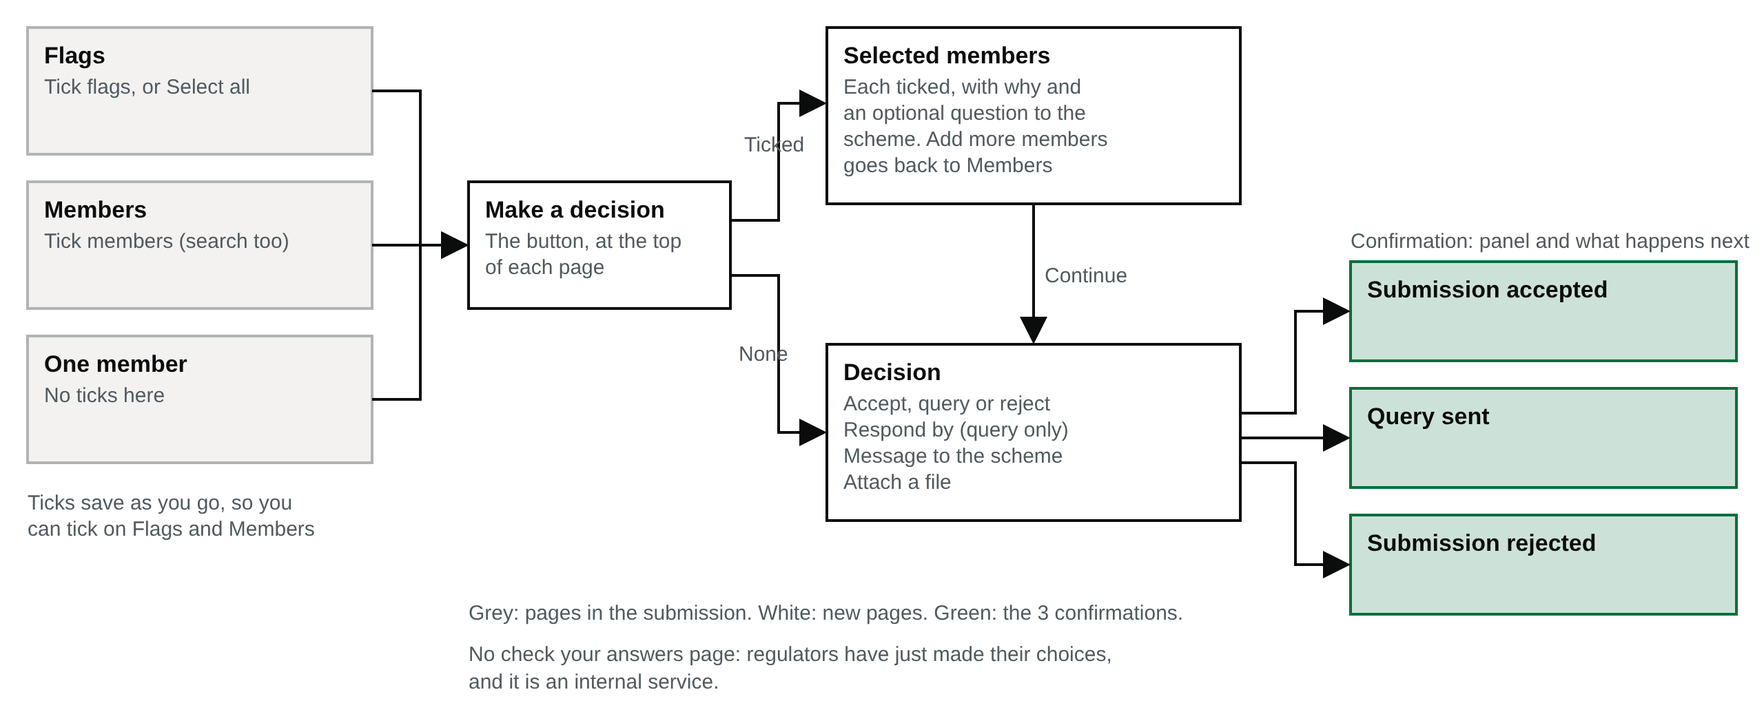
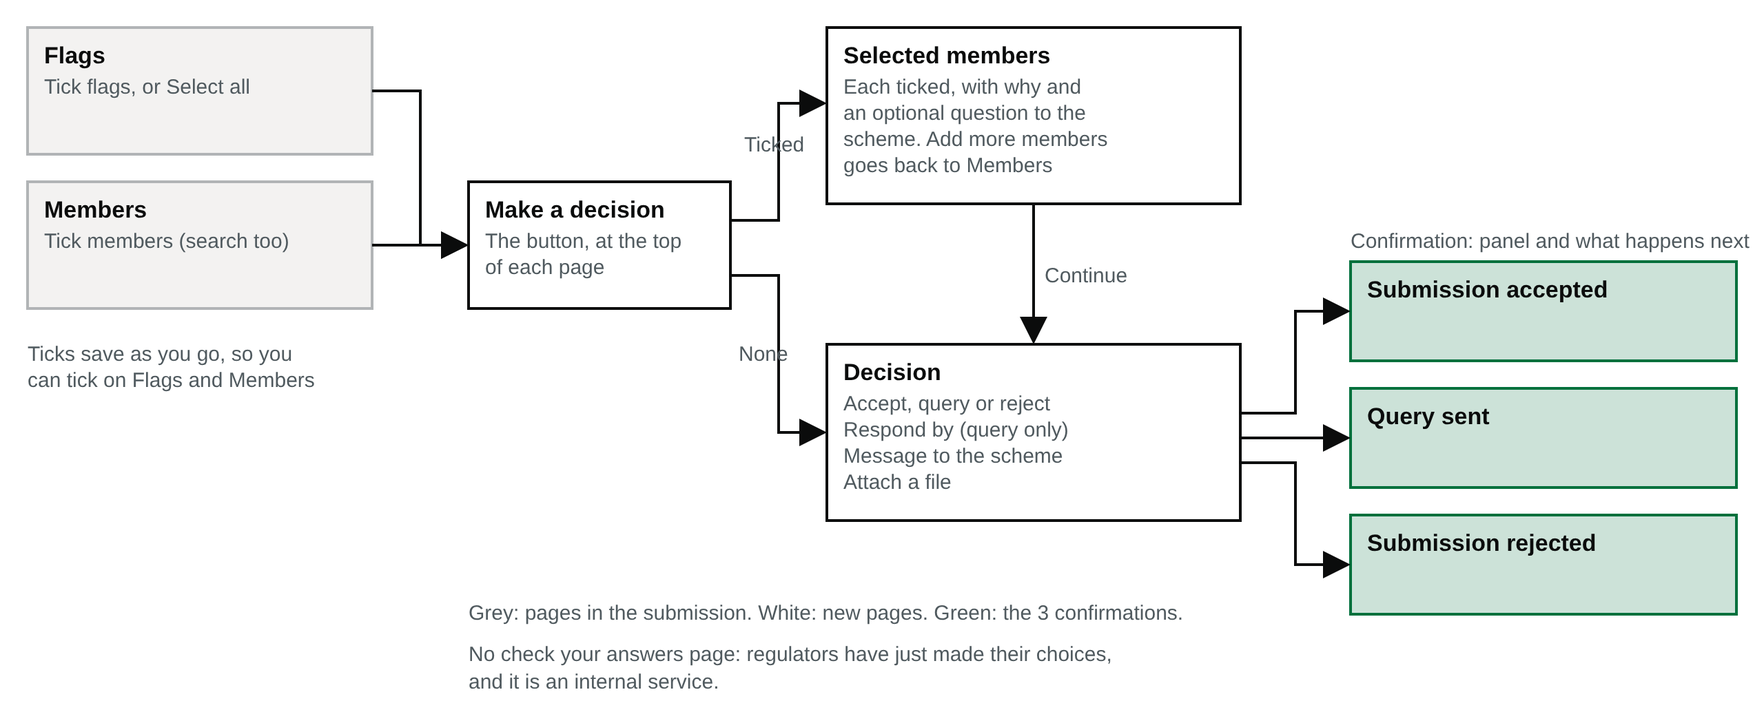
Take Make a decision off the member page, and update the Patterns page
Member page (version 4): no Make a decision button. There's nothing to tick there, so you make a decision from Flags or Members.

Change logs for EB-366 and EB-367 and both journey diagrams updated to match.

Patterns page: Defra Internal Frontend (Geoff's shared library) added, the table updated for version 4 with a column saying whether the library has each component, and our own add-ons listed.

Changed region(s): [[0.0, 0.4571, 0.2188, 0.579], [0.0312, 0.6705, 0.1875, 0.7619]]

diff --git a/app/views/patterns.html b/app/views/patterns.html
@@ -1,12 +1,22 @@
 {% extends "layouts/areas.html" %}
 
 {#
-  Patterns: components and patterns we're trying out, and the regulator toolkit prototype we align with.
-  Anything here from outside the GOV.UK Design System is also listed in the README, "Add-ons".
+  Patterns: the shared components and patterns we align with, and the ones
+  we use from outside the GOV.UK Design System.
+  Updated 18 November 2026 for version 4 (EB-366 and EB-367), and Geoff
+  Kaile's shared component library, Defra Internal Frontend.
+  Anything here from outside the GOV.UK Design System is also listed in the
+  README, "Add-ons".
 #}
 
 {% set pageName = "Patterns" %}
 {% set area = "patterns" %}
+
+{% set libraryUrl = "https://github.com/DEFRA/waste-regulator-components-fe" %}
+{% set libraryDocs = "https://github.com/DEFRA/waste-regulator-components-fe/blob/main/docs/components/" %}
+{% set toolkitUrl = "https://regulator-responsibility-app-359d82a07820.herokuapp.com/docs/design-patterns/patterns/patterns" %}
+{% set v4 = "/regulator/pom-submissions/v4" %}
+{% set v4Submission = "/regulator/pom-submissions/v4/recycling-lives/2026/3" %}
 
 {% block content %}
 <div class="govuk-grid-row">
@@ -14,19 +24,30 @@
 
     <h1 class="govuk-heading-xl">Patterns</h1>
 
-    <p class="govuk-body-l">Patterns, components and experiments we're trying out for Batteries EPR.</p>
+    <p class="govuk-body-l">The shared components we align with, and what we use from outside the GOV.UK Design System.</p>
+
+    <h2 class="govuk-heading-m govuk-!-margin-top-8">Defra Internal Frontend</h2>
+
+    <p class="govuk-body">A shared library of components for Defra internal services, such as regulator services, built on GOV.UK Frontend. It's maintained by the EPR Regulators team. Geoff Kaile is the front-end developer.</p>
+
+    <p class="govuk-body">Developers build regulator pages from this library, so where it has a component, we use it, or something that matches it. When we need something it doesn't have, we tell Geoff.</p>
+
+    <ul class="govuk-list">
+      <li><a href="{{ libraryDocs }}index.md" class="govuk-link" rel="noreferrer noopener" target="_blank">Defra Internal Frontend: components (opens in new tab)</a></li>
+      <li><a href="{{ libraryUrl }}" class="govuk-link" rel="noreferrer noopener" target="_blank">Defra Internal Frontend on GitHub (opens in new tab)</a></li>
+    </ul>
 
     <h2 class="govuk-heading-m govuk-!-margin-top-8">Regulator toolkit prototype</h2>
 
-    <p class="govuk-body">The regulator toolkit team own the shared design for regulator services across EPR. On regulator pages, we use their patterns and stay aligned with them. Anything new we design for regulators, we add to their prototype.</p>
+    <p class="govuk-body">The regulator toolkit team own the shared design for regulator services across EPR. On regulator pages, we use their patterns and stay aligned with them. Anything new we design for regulators, we share with them.</p>
 
     <p class="govuk-body">Alex Colbeck is their interaction designer. Ask Marie or Alex for the password.</p>
 
-    <p class="govuk-body"><a href="https://regulator-responsibility-app-359d82a07820.herokuapp.com/docs/design-patterns/patterns/patterns" class="govuk-link">Regulator toolkit prototype: caseworking design patterns</a></p>
+    <p class="govuk-body"><a href="{{ toolkitUrl }}" class="govuk-link" rel="noreferrer noopener" target="_blank">Regulator toolkit prototype: caseworking design patterns (opens in new tab)</a></p>
 
     <h2 class="govuk-heading-m govuk-!-margin-top-8">From outside the GOV.UK Design System</h2>
 
-    <p class="govuk-body">We use these because the GOV.UK Design System doesn't have what we need yet.</p>
+    <p class="govuk-body">We use these because the GOV.UK Design System doesn't have what we need yet. The last column says whether Defra Internal Frontend has it.</p>
 
   </div>
 </div>
@@ -34,37 +55,81 @@
 <div class="govuk-grid-row">
   <div class="govuk-grid-column-full">
 
-    {{ govukTable({
-      caption: "From outside the GOV.UK Design System",
-      captionClasses: "govuk-visually-hidden",
-      firstCellIsHeader: true,
-      head: [
-        { text: "Component" },
-        { text: "From" },
-        { text: "Where we use it" },
-        { text: "Where else it's used" }
-      ],
-      rows: [
-        [
-          { html: '<a href="https://design-patterns.service.justice.gov.uk/components/sortable-table/" class="govuk-link">Sortable table</a>' },
-          { text: "MOJ Design System" },
-          { html: '<a href="/regulators" class="govuk-link">Regulators</a> (the list of prototypes), <a href="/regulator/pom-submissions/full/recycling-lives/2026/3/members" class="govuk-link">members of a scheme</a> and <a href="/regulator/pom-submissions/all-submissions" class="govuk-link">placed on the market submissions</a> (all submissions)' },
-          { html: 'Regulator toolkit prototype: <a href="https://regulator-responsibility-app-359d82a07820.herokuapp.com/v4/regulator-index--dashboard?persona=basic-user" class="govuk-link">regulator dashboard</a> (every To action and Completed table)' }
+    {# The tag on its own line, the words under it #}
+    {% set yes = '<strong class="govuk-tag govuk-tag--green govuk-!-margin-bottom-2">Yes</strong><br>' %}
+    {% set no = '<strong class="govuk-tag govuk-tag--grey govuk-!-margin-bottom-2">Not yet</strong><br>' %}
+
+    <div class="moj-scrollable-pane" role="region" tabindex="0" aria-label="From outside the GOV.UK Design System">
+      {{ govukTable({
+        caption: "From outside the GOV.UK Design System",
+        captionClasses: "govuk-visually-hidden",
+        firstCellIsHeader: true,
+        classes: "govuk-!-font-size-16",
+        head: [
+          { text: "Component", classes: "app-table-cell--wrap" },
+          { text: "From", classes: "app-table-cell--wrap" },
+          { text: "Where we use it", classes: "app-table-cell--wrap" },
+          { text: "In Defra Internal Frontend", classes: "app-table-cell--wrap" }
         ],
-        [
-          { html: '<a href="https://design-patterns.service.justice.gov.uk/components/scrollable-pane/" class="govuk-link">Scrollable pane</a>' },
-          { text: "MOJ Design System (copied exactly, as the version of MOJ Frontend this kit can use doesn't have it)" },
-          { html: 'Every wide table: <a href="/regulators" class="govuk-link">Regulators</a>, <a href="/regulator/pom-submissions/latest-quarter" class="govuk-link">placed on the market submissions</a> (both versions), the flags table on the submission (full version) and members of a scheme' },
-          { html: 'Regulator toolkit prototype: <a href="https://regulator-responsibility-app-359d82a07820.herokuapp.com/v4/regulator-index--dashboard?persona=basic-user" class="govuk-link">regulator dashboard</a> and <a href="https://regulator-responsibility-app-359d82a07820.herokuapp.com/v4/certificates-of-compliance/basic-user/certificate-details?orgId=100105" class="govuk-link">certificate of compliance details</a>' }
-        ],
-        [
-          { html: '<a href="https://regulator-responsibility-app-359d82a07820.herokuapp.com/docs/design-patterns/patterns/patterns" class="govuk-link">Defra internal header, service navigation and footer</a>' },
-          { text: "Regulator toolkit prototype" },
-          { text: "Every regulator page in the prototype. Not agreed for the build yet" },
-          { html: 'Regulator toolkit prototype: every page, for example the <a href="https://regulator-responsibility-app-359d82a07820.herokuapp.com/v4/regulator-index--dashboard?persona=basic-user" class="govuk-link">regulator dashboard</a>' }
+        rows: [
+          [
+            { html: '<a href="https://design-patterns.service.justice.gov.uk/components/sub-navigation/" class="govuk-link">Sub navigation</a>', classes: "app-table-cell--wrap" },
+            { text: "MOJ Design System", classes: "app-table-cell--wrap" },
+            { html: 'Moving between the 5 pages of a <a href="' + v4Submission + '" class="govuk-link">submission</a> (version 4)', classes: "app-table-cell--wrap" },
+            { html: yes + '<a href="' + libraryDocs + 'producer-subnavigation.md" class="govuk-link">Producer subnavigation</a>, the same component. To ask Geoff: could it be called "Sub navigation", so every team can use it?', classes: "app-table-cell--wrap" }
+          ],
+          [
+            { html: '<a href="https://design-patterns.service.justice.gov.uk/components/scrollable-pane/" class="govuk-link">Scrollable pane</a>', classes: "app-table-cell--wrap" },
+            { text: "MOJ Design System (copied exactly, as the version of MOJ Frontend this kit uses doesn't have it)", classes: "app-table-cell--wrap" },
+            { text: "Every table, so on a phone only the table scrolls sideways. One column of names can wrap, so tables fit a desktop", classes: "app-table-cell--wrap" },
+            { html: yes + '<a href="' + libraryDocs + 'moj-scrollable-pane.md" class="govuk-link">Scrollable pane</a>, including letting text wrap', classes: "app-table-cell--wrap" }
+          ],
+          [
+            { html: '<a href="https://design-patterns.service.justice.gov.uk/components/sortable-table/" class="govuk-link">Sortable table</a>', classes: "app-table-cell--wrap" },
+            { text: "MOJ Design System", classes: "app-table-cell--wrap" },
+            { html: '<a href="' + v4Submission + '/member-figures" class="govuk-link">Members</a> (biggest change first) and the <a href="' + v4 + '/all" class="govuk-link">list of all submissions</a>. It sorts in the browser, and we remember the sort', classes: "app-table-cell--wrap" },
+            { html: yes + '<a href="' + libraryDocs + 'sorting-column-header.md" class="govuk-link">Sorting column header</a>. It sorts on the server, not in the browser: to talk through with Geoff', classes: "app-table-cell--wrap" }
+          ],
+          [
+            { html: '<a href="https://design-patterns.service.justice.gov.uk/components/multi-select/" class="govuk-link">Multi-select</a> (Select all), with GOV.UK small checkboxes in each row', classes: "app-table-cell--wrap" },
+            { text: "MOJ Design System", classes: "app-table-cell--wrap" },
+            { html: 'Ticking members on <a href="' + v4Submission + '" class="govuk-link">Flags</a> (with Select all) and Members (without), to make a decision (EB-367). Ticks save as you go', classes: "app-table-cell--wrap" },
+            { html: no + 'Same pattern as Alex\'s registration page. To raise with Geoff', classes: "app-table-cell--wrap" }
+          ],
+          [
+            { html: '<a href="https://alphagov.github.io/accessible-autocomplete/" class="govuk-link">Accessible autocomplete</a>', classes: "app-table-cell--wrap" },
+            { text: "GOV.UK (a separate package, not in the Design System)", classes: "app-table-cell--wrap" },
+            { html: 'The search on <a href="' + v4Submission + '/member-figures" class="govuk-link">Members</a>: suggests members as you type. Without JavaScript, a normal search box', classes: "app-table-cell--wrap" },
+            { html: no + 'The library has a plain <a href="' + libraryDocs + 'search.md" class="govuk-link">Search</a>. To raise with Geoff', classes: "app-table-cell--wrap" }
+          ],
+          [
+            { html: '<a href="' + toolkitUrl + '" class="govuk-link">Defra internal header, service navigation and footer</a>', classes: "app-table-cell--wrap" },
+            { text: "Regulator toolkit prototype", classes: "app-table-cell--wrap" },
+            { text: "Every regulator page in the prototype", classes: "app-table-cell--wrap" },
+            { html: yes + '<a href="' + libraryDocs + 'defra-internal-header.md" class="govuk-link">Header</a>, <a href="' + libraryDocs + 'defra-internal-service-header.md" class="govuk-link">service header</a> and <a href="' + libraryDocs + 'defra-internal-footer.md" class="govuk-link">footer</a>. Ours are copied from Alex\'s prototype: check they still match', classes: "app-table-cell--wrap" }
+          ]
         ]
-      ]
-    }) }}
+      }) }}
+    </div>
+
+  </div>
+</div>
+
+<div class="govuk-grid-row">
+  <div class="govuk-grid-column-two-thirds">
+
+    <h2 class="govuk-heading-m govuk-!-margin-top-6">Small things we've added</h2>
+
+    <p class="govuk-body">Not components: small additions to make the pages work. Each is explained in the README, "Add-ons", with how to remove it.</p>
+
+    <ul class="govuk-list govuk-list--bullet">
+      <li>Words files: the words for each page live in app/content/, so content design can change them without touching the code</li>
+      <li>Filters in a row: search boxes, dropdowns and buttons side by side, wrapping on a phone</li>
+      <li>A checkbox column in a table, only as wide as the checkbox</li>
+      <li>Remember a table's sort, when you come back to the page</li>
+      <li>Save ticks as you go, so you can tick on Flags and Members before making a decision</li>
+      <li>Record a change: the <a href="/changes" class="govuk-link">What's changed</a> pages, with screenshots and journey diagrams</li>
+    </ul>
 
   </div>
 </div>

diff --git a/app/views/changes/add-version-4-member-figures.html b/app/views/changes/add-version-4-member-figures.html
@@ -30,7 +30,7 @@
 <p class="govuk-body"><strong>Submissions list</strong></p>
 <ul class="govuk-list govuk-list--bullet"><li>Version 4B (new, 17 November): every submission, with quarter, year and status filters, as version 3B, a back-up list for research. View submission opens the version 4 submission, and Back comes back to the same list and filters. A link at the bottom of each list switches between version 4 and 4B</li><li>One link per row, View submission. The scheme name isn't a link: two links in a row going to two places make people choose, and double the tab stops for keyboard users. Version 3 keeps the scheme name as a link, so research can compare</li></ul>
 <p class="govuk-body"><strong>Submission: 5 pages with a sub navigation (new, 17 November)</strong></p>
-<ul class="govuk-list govuk-list--bullet"><li>The submission is now 5 pages: Flags, Submission details, Members, Changes and Scheme details, with a sub navigation between them (MOJ sub navigation), as in Alex's regulator prototype. Before, the details sat under the flags as an afterthought, and lots of flags pushed them down the page</li><li>Every page has the same short top, so nothing gets pushed down: the scheme, the heading and the sub navigation</li><li>Submission details ends with Files in this submission: the whole return as a spreadsheet (CSV), then the scheme's supporting documents, each with Download</li><li>Submission details has review by and status with the other details, and Last changed (the date a figure was last changed) with View changes. Was &quot;Version 2 of 2&quot;: nobody could say what a version is, and what matters is that figures changed, and when</li><li>Scheme details (the organisation details) is in the sub navigation too, rather than a link from the Scheme row</li><li>Make a decision (a green button) on Flags and each member's page: accept, query or reject. Now built: see <a href="/changes/add-version-4-make-a-decision" class="govuk-link">Add version 4: making a decision on a submission (EB-367)</a></li><li>Flags is the first page: what regulators want to see most. With no flags, it says so and how many members passed the checks, so you never land on an empty page</li><li>Flags are a table: Member, Flag, Scheme's reason, and View figures. No tags for flag types: the type is in bold words. Waste has around 10 checks, too many for tag colours to mean anything</li><li>Each page has its own address, so Back and bookmarks work, and it all works without JavaScript. Back goes to the list of submissions</li></ul>
+<ul class="govuk-list govuk-list--bullet"><li>The submission is now 5 pages: Flags, Submission details, Members, Changes and Scheme details, with a sub navigation between them (MOJ sub navigation), as in Alex's regulator prototype. Before, the details sat under the flags as an afterthought, and lots of flags pushed them down the page</li><li>Every page has the same short top, so nothing gets pushed down: the scheme, the heading and the sub navigation</li><li>Submission details ends with Files in this submission: the whole return as a spreadsheet (CSV), then the scheme's supporting documents, each with Download</li><li>Submission details has review by and status with the other details, and Last changed (the date a figure was last changed) with View changes. Was &quot;Version 2 of 2&quot;: nobody could say what a version is, and what matters is that figures changed, and when</li><li>Scheme details (the organisation details) is in the sub navigation too, rather than a link from the Scheme row</li><li>Make a decision (a green button) on Flags: accept, query or reject. It was on each member's page too, but there's nothing to tick there, so it's now on Flags and Members only. Now built: see <a href="/changes/add-version-4-make-a-decision" class="govuk-link">Add version 4: making a decision on a submission (EB-367)</a></li><li>Flags is the first page: what regulators want to see most. With no flags, it says so and how many members passed the checks, so you never land on an empty page</li><li>Flags are a table: Member, Flag, Scheme's reason, and View figures. No tags for flag types: the type is in bold words. Waste has around 10 checks, too many for tag colours to mean anything</li><li>Each page has its own address, so Back and bookmarks work, and it all works without JavaScript. Back goes to the list of submissions</li></ul>
 <p class="govuk-body"><strong>Member figures (new)</strong></p>
 <ul class="govuk-list govuk-list--bullet"><li>Opens with the biggest change first, by size in tonnes, so what looks wrong comes first (18 November). Was name order, A to Z</li><li>Every member, with any flag types in bold under their biggest change (it's the change that's a variance, not the member), and View figures on each row (one clear action, as on the flags), and the chemistry that changed most on the quarter before, for example &quot;Other: up 0.50 (42%)&quot;. By chemistry, not each member's total, so tonnage moving from one chemistry to another can't hide behind a total that stays the same. Sort by Biggest change to spot swings the flags didn't catch</li><li>Search by name or registration number: with JavaScript, it suggests members as you type, with the letters typed in bold (GOV.UK's accessible autocomplete). Searching filters the list: it never jumps to another page. Return searches, as in any search box: when a suggestion is highlighted, Return picks it, and Return again searches</li><li>Membership: current members first, or former, or all, as version 3</li></ul>
 <p class="govuk-body"><strong>One member (new)</strong></p>

diff --git a/app/views/changes/add-version-4-make-a-decision.html b/app/views/changes/add-version-4-make-a-decision.html
@@ -26,7 +26,7 @@
 <div class="govuk-grid-column-two-thirds">
 <p class="govuk-body">EB-367: regulators accept, query or reject a placed on the market submission. Most of the time they go back and forth with the scheme before accepting, so querying is the main job, and a query is often about particular members. Designed and built on 18 November, in version 4, after EB-366.</p>
 <p class="govuk-body"><strong>The journey, in words</strong></p>
-<ul class="govuk-list govuk-list--bullet"><li>On Flags or Members, tick the members you want to ask the scheme about, then Make a decision. The member page has Make a decision too, with nothing to tick</li><li>With members ticked: Selected members, then the decision page. With none ticked: straight to the decision page</li><li>The decision page: accept, query or reject. Then one of 3 confirmations</li><li>No check your answers page: regulators have just made their choices on one page, and it's an internal service</li></ul>
+<ul class="govuk-list govuk-list--bullet"><li>On Flags or Members, tick the members you want to ask the scheme about, then Make a decision. Not on a member's page: there's nothing to tick there, so the button was taken off (it was there in EB-366)</li><li>With members ticked: Selected members, then the decision page. With none ticked: straight to the decision page</li><li>The decision page: accept, query or reject. Then one of 3 confirmations</li><li>No check your answers page: regulators have just made their choices on one page, and it's an internal service</li></ul>
 <p class="govuk-body"><strong>Flags and Members: tick members (new)</strong></p>
 <ul class="govuk-list govuk-list--bullet"><li>A tickbox on each row (GOV.UK small checkboxes). Nothing ticked to start with</li><li>Select all on Flags only, in the table heading (MOJ multi-select, with JavaScript). Not on Members, where it would tick hundreds: to test</li><li>Make a decision (green button) at the top, above the table, so it's there without scrolling. Was at the bottom of Flags</li><li>Ticks save as you make them, so you can tick on Flags, move to Members, tick more, and they all come through. Anyone you've ticked stays ticked when you come back. Without JavaScript, ticks save when you press Make a decision</li><li>A line above the button explains the tickboxes: for content design to check</li></ul>
 <p class="govuk-body"><strong>Selected members (new)</strong></p>

diff --git a/app/routes/v4-decision.js b/app/routes/v4-decision.js
@@ -9,11 +9,10 @@
 // The journey (agreed with Marie, 18 November):
 //
 //   Flags or Members: tick the members you want to ask about (or none), then
-//   Make a decision. The member page has Make a decision too, with no ticks
+//   Make a decision. Not on a member's page: there's nothing to tick there
 //     POST .../decision/start       saves the ticks, then:
 //       with members ticked        > .../decision/members  (Selected members)
 //       with none                  > .../decision           (Make a decision)
-//     GET  .../decision/start       the same, from the member page (a link)
 //     POST .../decision/save        with JavaScript, each tick is saved as
 //                                   you make it, so ticks on Flags are still
 //                                   there after you move to Members
@@ -160,14 +159,6 @@ module.exports = (router) => {
     if (!s) return next_()
     saveTicks(s, req.body)
     res.status(204).end()
-  })
-
-  // Make a decision on a member's page: a link, no ticks
-  router.get(SUBMISSION + '/decision/start', (req, res, next_) => {
-    const s = load(req)
-    if (!s) return next_()
-    s.decision.from = safeBack(req.query.from, s.urls.flags)
-    res.redirect(next(s))
   })
 
   // Selected members

diff --git a/app/views/regulator/v4/member.html b/app/views/regulator/v4/member.html
@@ -33,9 +33,9 @@
     the scheme sent the return, newest first: date, chemistry, before and
     after (tonnes), who changed it. From Ian's amendment history design.
     After the figures, so you see what's odd, then what's been fixed
-  - Make a decision (a green button): the same as on Flags (EB-367, 18
-    November). No ticks on this page: it goes to Selected members if you've
-    ticked some on Flags or Members, or straight to Make a decision
+  - No Make a decision button: there's nothing to tick here, so you make a
+    decision from Flags or Members, where you can tick members (Marie, 18
+    November). Was: a Make a decision button, the same as on Flags
   - No links under the tables: Back at the top is the way back
 
   One page, not a sub navigation like the submission: the flags, figures and
@@ -227,10 +227,6 @@
         }) }}
       </div>
     {% endif %}
-
-    {# Make a decision, as on Flags: you're often looking at a member when
-       you decide (EB-367, app/routes/v4-decision.js) #}
-    {{ govukButton({ text: words.makeADecisionButton, href: decisionHref }) }}
 
   </div>
 </div>

diff --git a/app/routes/v4.js b/app/routes/v4.js
@@ -330,10 +330,6 @@ module.exports = (router) => {
       same: show === compare,
       table: figures.comparison(member, show, compare),
       formAction: req.path,
-      // Make a decision, as on Flags (EB-367): with no ticks here, it goes to
-      // Selected members if you've ticked some elsewhere, or straight to
-      // Make a decision. Back comes back to this page
-      decisionHref: here + '/decision/start?from=' + encodeURIComponent(req.originalUrl),
       backHref
     })
   })

diff --git a/app/views/regulator/v4/decision.html b/app/views/regulator/v4/decision.html
@@ -4,7 +4,7 @@
   VERSION 4 (18 November 2026). EB-367: Make a decision. New page.
   Address: /regulator/pom-submissions/v4/recycling-lives/2026/3/decision
   You get here from Selected members (Continue), or straight from Make a
-  decision on Flags, Members or a member's page if no members are ticked.
+  decision on Flags or Members if no members are ticked.
 
   Why: the regulator accepts, queries or rejects the whole submission
   (EB-367, UN-068, UN-069). Agreed with Marie, 18 November.

diff --git a/app/views/regulator/v4/selected-members.html b/app/views/regulator/v4/selected-members.html
@@ -13,7 +13,7 @@
   decision page.
 
   Top to bottom:
-  - Back to the page you came from (Flags, Members or a member)
+  - Back to the page you came from (Flags or Members)
   - The scheme name in the caption, and the quarter, written out, then
     "selected members" as the heading ("July to September 2026 selected
     members"), the same pattern as the submission's own heading (Marie, 18

diff --git a/app/content/regulator/v4/member.md b/app/content/regulator/v4/member.md
@@ -96,6 +96,3 @@ New this quarter
 
 ## None this quarter (none in the quarter shown)
 None this quarter
-
-## Make a decision button (accept, query or reject the whole return, the same as on Flags)
-Make a decision
